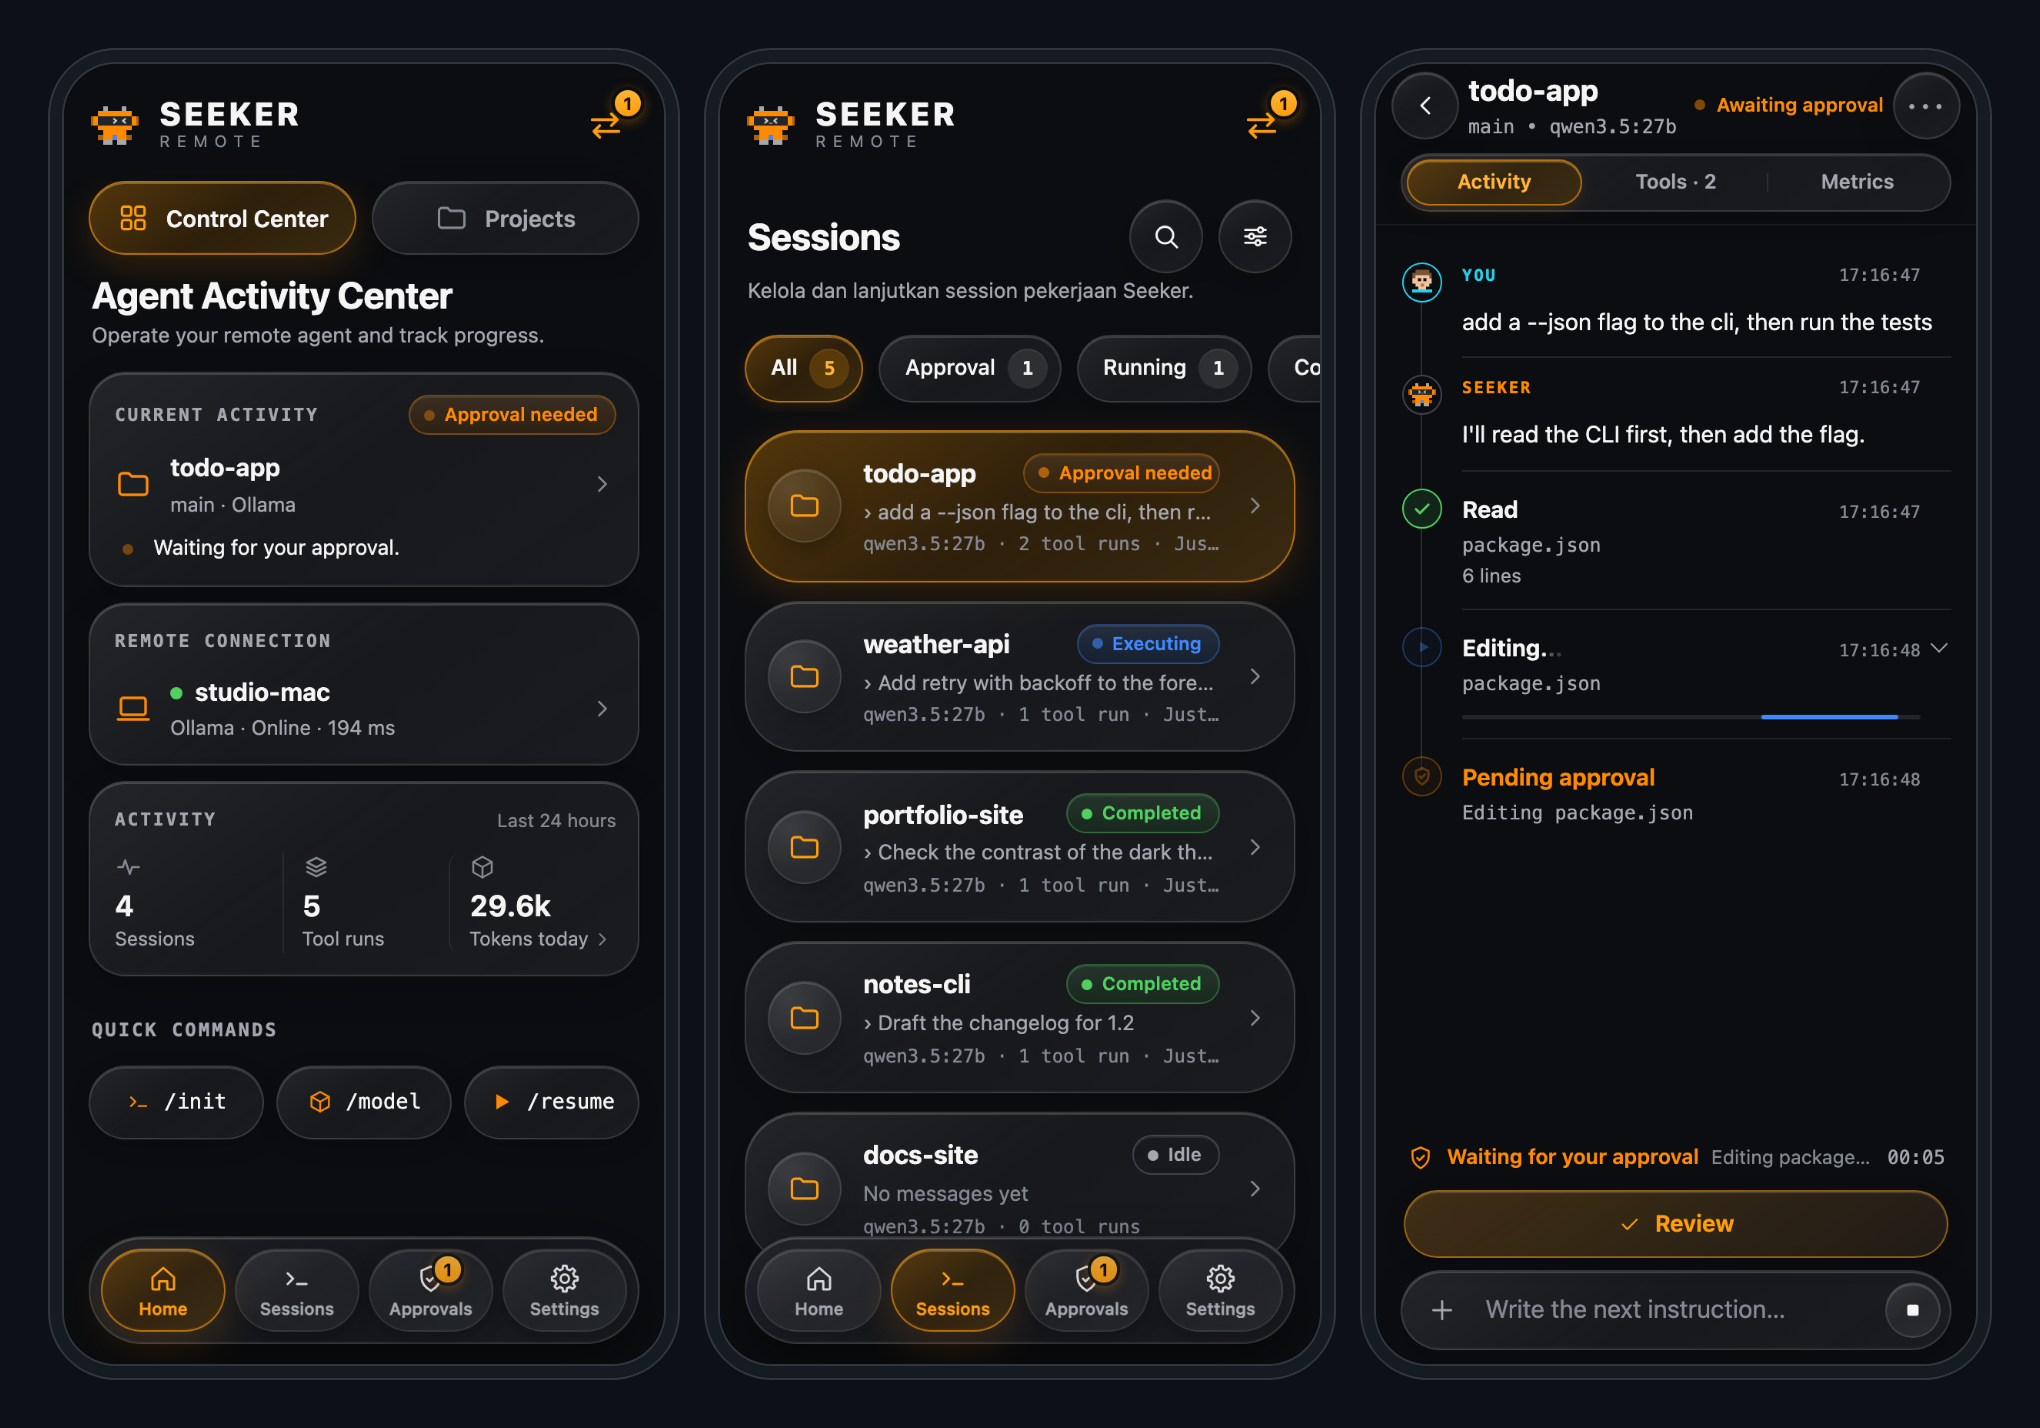
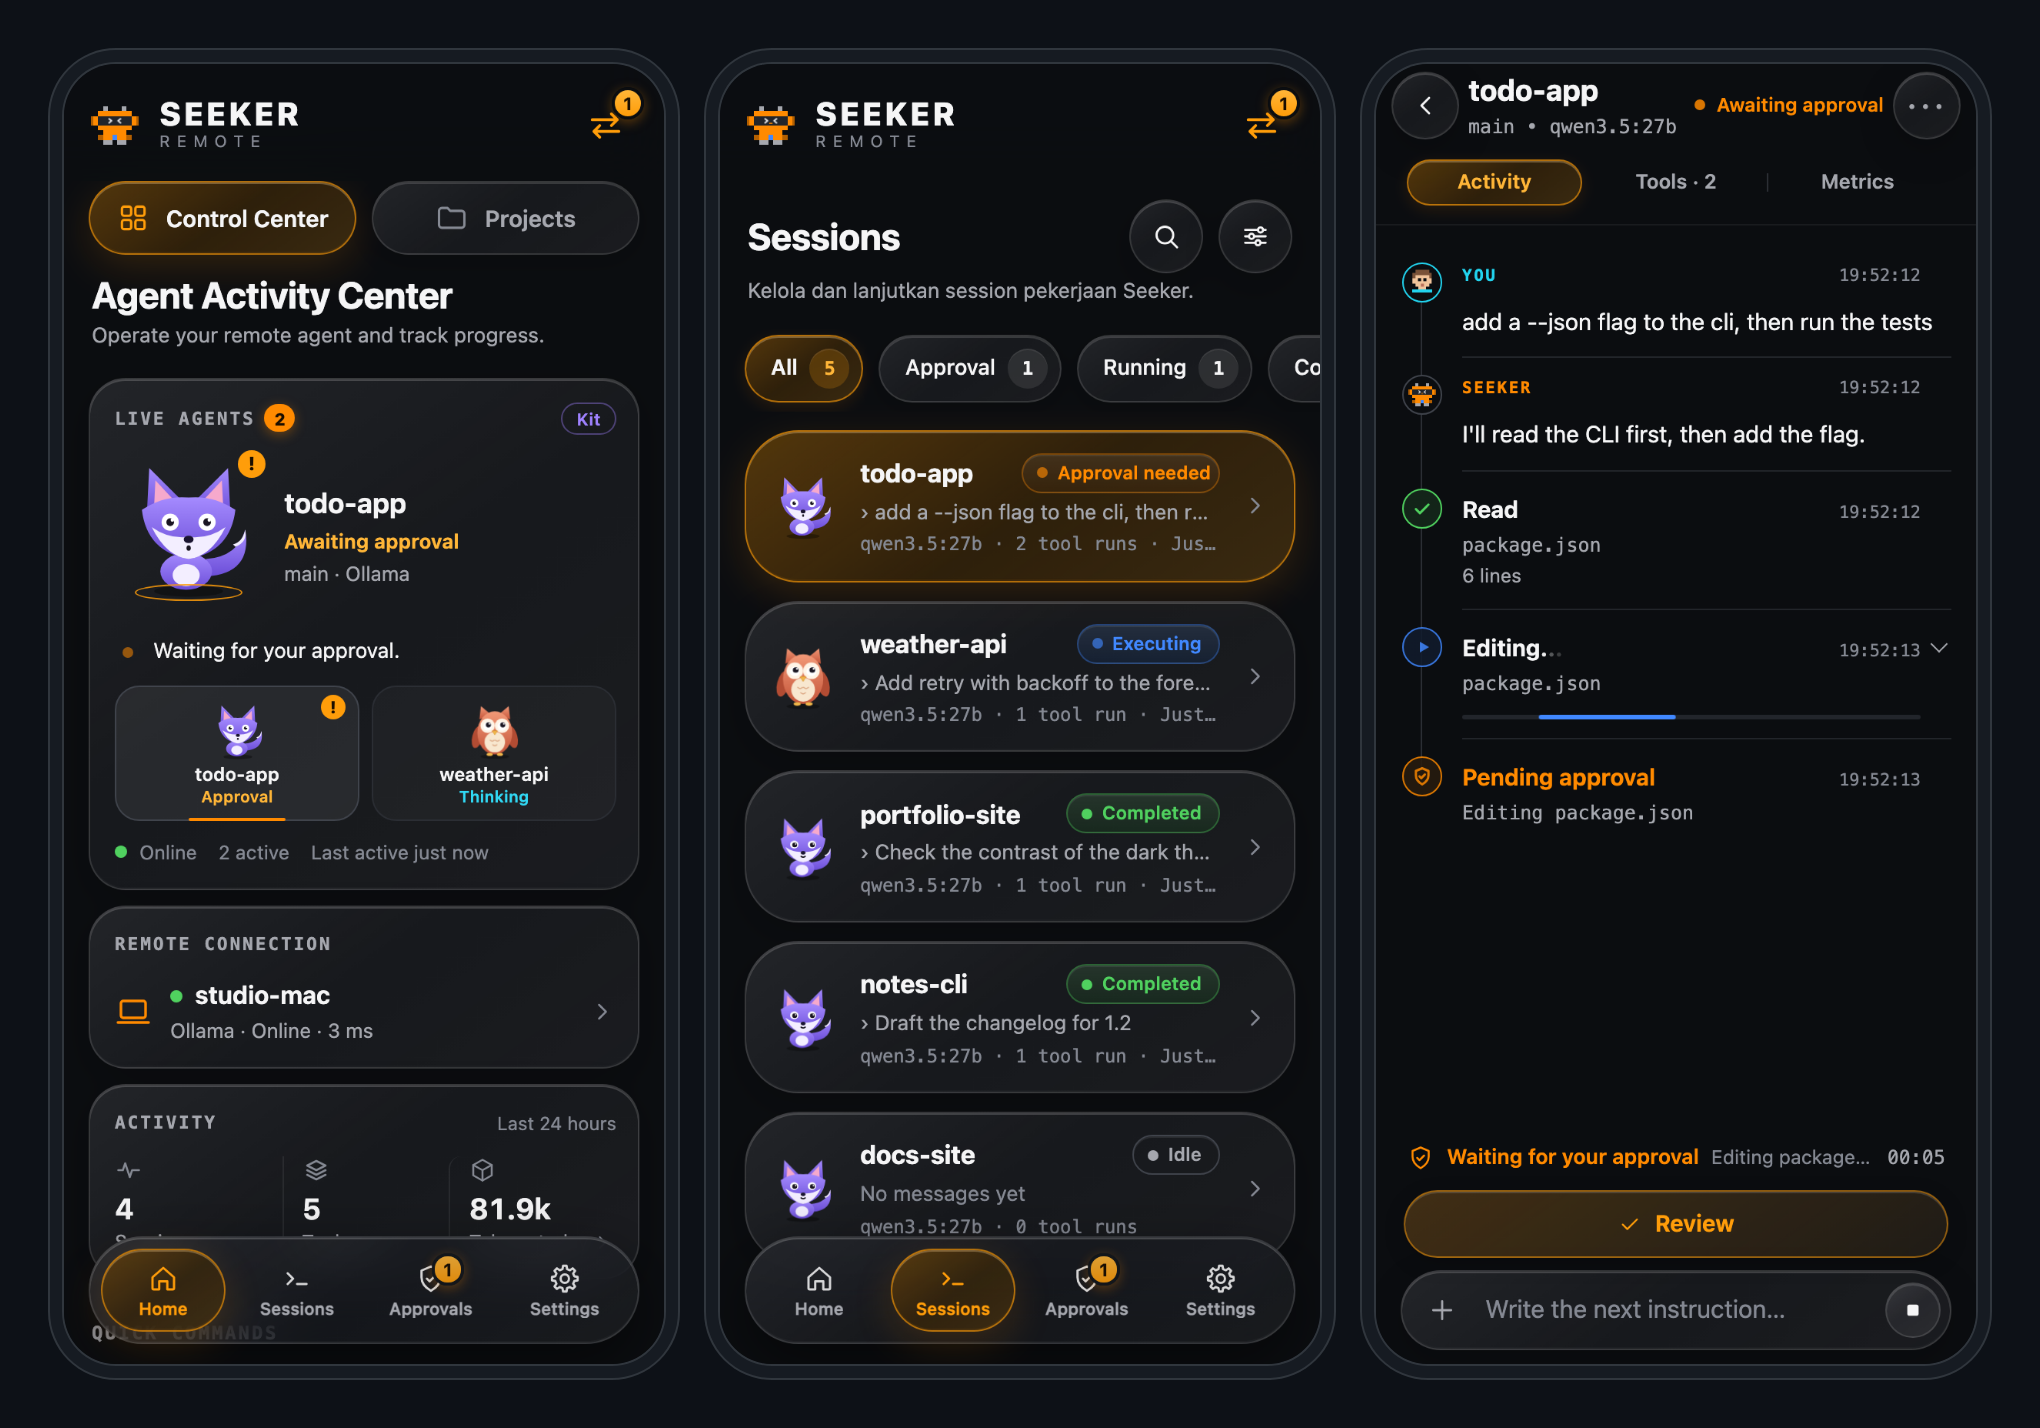
README: retake the phone app picture with agent characters
Home now shows the Live Agent card: the agent in front as its character,
and crew chips for the two agents at work (one project set to its own
character). The session list carries each project's character. Same
made-up projects and scripted model replies as before.

diff --git a/README.id.md b/README.id.md
@@ -24,7 +24,7 @@ lewat `/model` bisa juga memakai server lokal lain atau model cloud. Node murni,
 <details>
 <summary>Aplikasi di HP (<code>seeker remote</code>)</summary>
 
-![Aplikasi di HP: Home, daftar sesi, dan satu sesi yang menunggu persetujuan](docs/remote.png)
+![Aplikasi di HP: Home dengan kartu Live Agent dan karakter tiap project, daftar sesi, dan satu sesi yang menunggu persetujuan](docs/remote.png)
 
 </details>
 
@@ -174,7 +174,7 @@ dari titik perubahannya. Tinjauan setelah menjawab hanya membaca bagian terbaru 
 
 ## Remote control dari HP
 
-![Aplikasi di HP: Home, daftar sesi, dan satu sesi yang menunggu persetujuan](docs/remote.png)
+![Aplikasi di HP: Home dengan kartu Live Agent dan karakter tiap project, daftar sesi, dan satu sesi yang menunggu persetujuan](docs/remote.png)
 
 `seeker remote` menjalankan agent di Mac dan menghubungkannya ke relay (`remote-server/`, di-deploy ke Railway).
 HP membuka aplikasi web di alamat relay itu.

diff --git a/README.md b/README.md
@@ -25,7 +25,7 @@ Plain Node, no build step.
 <details>
 <summary>The phone app (<code>seeker remote</code>)</summary>
 
-![The phone app: Home, the list of sessions, and a session waiting for approval](docs/remote.png)
+![The phone app: Home with the Live Agent card and each project's character, the list of sessions, and a session waiting for approval](docs/remote.png)
 
 </details>
 
@@ -564,7 +564,7 @@ the chain.
 
 ## Remote control from a phone
 
-![The phone app: Home, the list of sessions, and a session waiting for approval](docs/remote.png)
+![The phone app: Home with the Live Agent card and each project's character, the list of sessions, and a session waiting for approval](docs/remote.png)
 
 `seeker remote` runs the agent on your computer and connects it to a relay (`remote-server/`, a
 dependency-free Node server you deploy yourself, for example on Railway). The phone opens the web app
